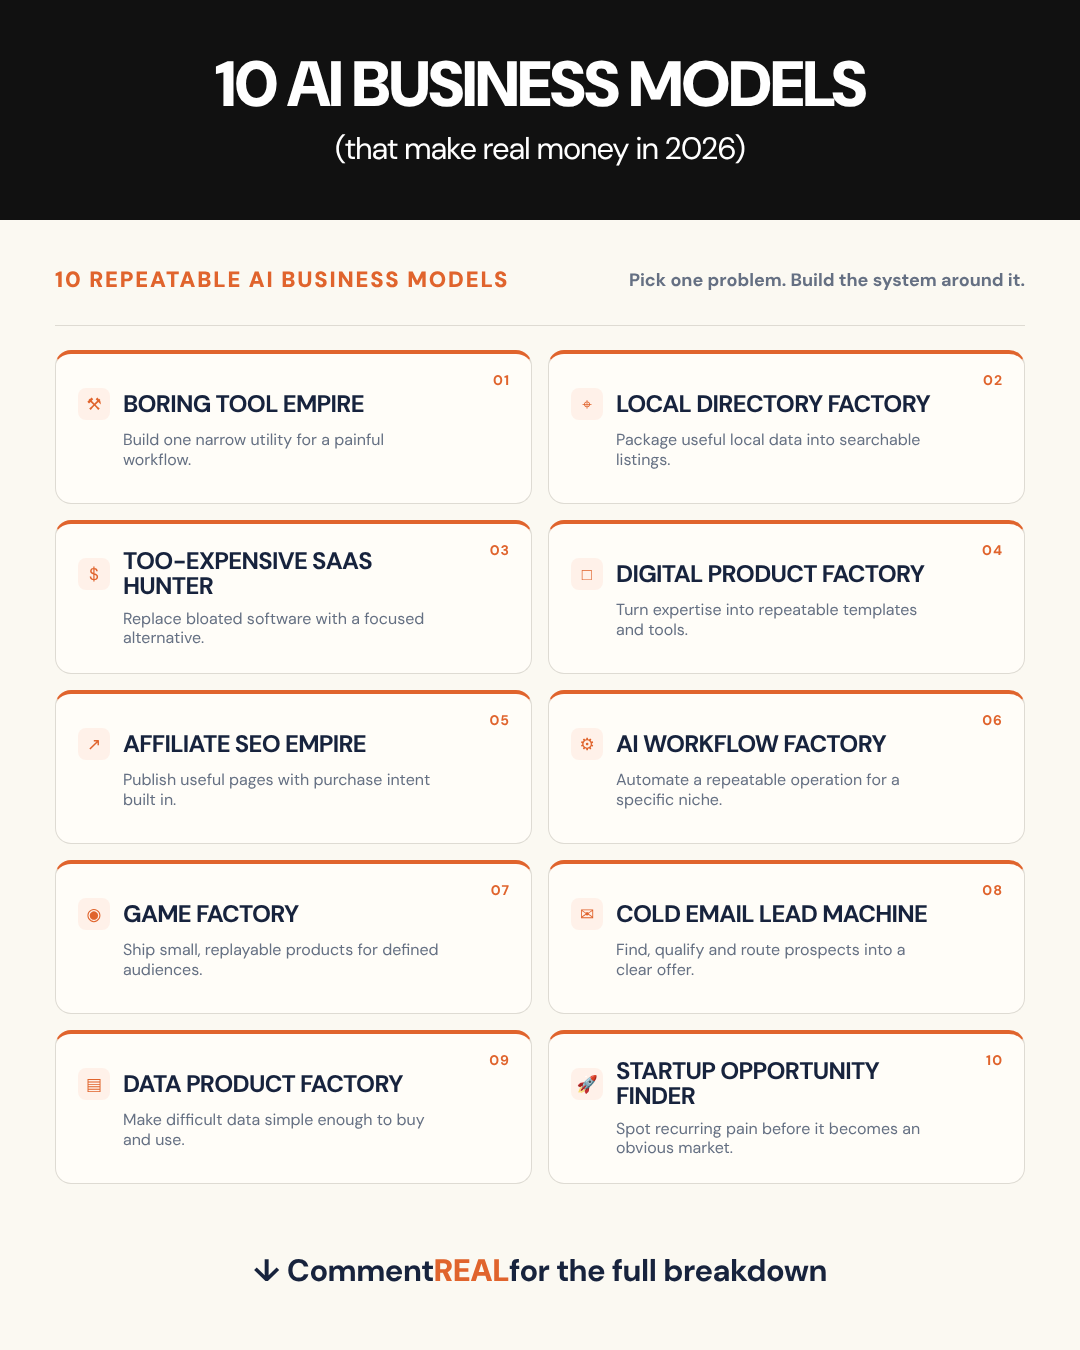
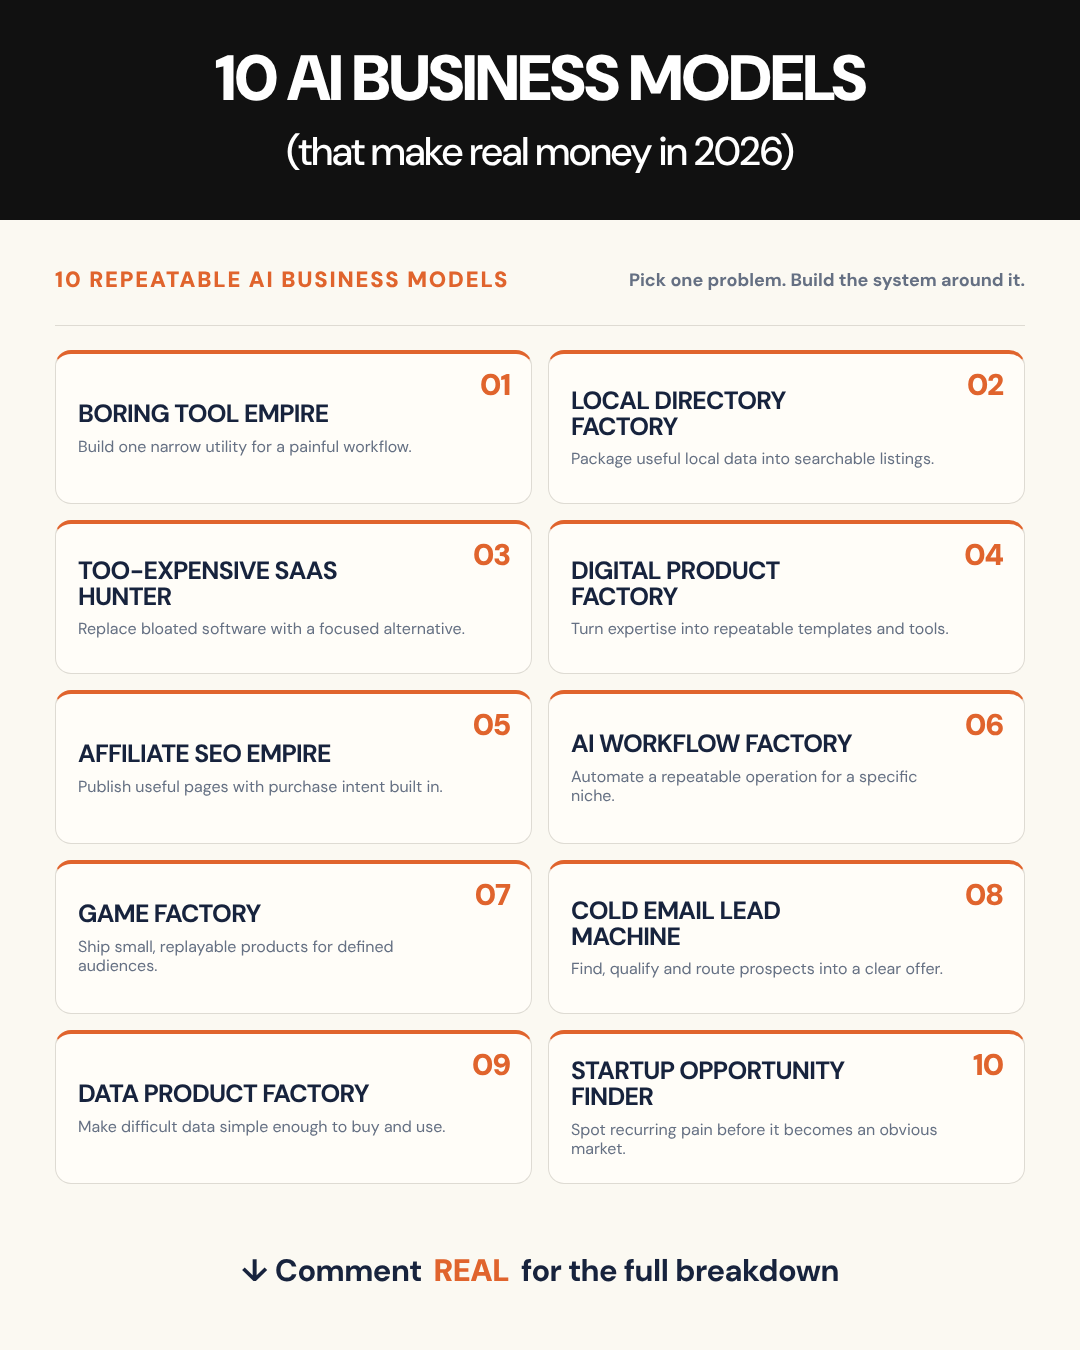
Ship from Ultron

diff --git a/content/ultron-ai-business-models-v2.html b/content/ultron-ai-business-models-v2.html
@@ -157,6 +157,6 @@
 
 /* FILM-META {"duration":7.0,"w":1080,"h":1350,"fps":30,"beats":[{"from":0,"to":3,"name":"reveal"}]} */
 :root{--ink:#17233d;--accent:#e0642d;--cream:#fbf9f2;--rule:#dedbd3;--muted:#657083}*{box-sizing:border-box;margin:0;padding:0}body{background:#000;font-family:'DM Sans',Arial,sans-serif;color:var(--ink)}#film{position:relative;width:1080px;height:1350px;overflow:hidden;background:var(--cream)}
-.header{position:absolute;top:0;left:0;width:1080px;height:220px;background:#111;color:#fff;display:flex;flex-direction:column;align-items:center;justify-content:center;text-align:center;z-index:3}.header h1{font-size:64px;line-height:1;font-weight:850;letter-spacing:-2.4px}.header p{font-size:31px;line-height:1.1;font-weight:400;margin-top:15px;letter-spacing:-.6px}
-.body{position:absolute;top:220px;left:0;width:1080px;height:970px;background:var(--cream);padding:34px 55px 28px}.intro{height:72px;display:flex;justify-content:space-between;align-items:center;border-bottom:1px solid var(--rule);padding-bottom:20px}.intro h2{font-size:22px;letter-spacing:1.8px;color:var(--accent);font-weight:850}.intro p{font-size:18px;font-weight:600;color:var(--muted)}.grid{margin-top:24px;display:grid;grid-template-columns:repeat(2,1fr);grid-auto-rows:154px;gap:16px}.card{position:relative;border:1px solid var(--rule);border-radius:16px;background:#fffdf8;padding:20px 22px;display:flex;flex-direction:column;justify-content:center}.card{border-top:4px solid var(--accent)}.num{position:absolute;top:17px;right:21px;font-size:14px;color:var(--accent);letter-spacing:1px}.titleline{display:flex;align-items:center;gap:13px;padding-right:40px}.icon{display:grid;place-items:center;width:32px;height:32px;border:2px solid var(--purple);border-radius:8px;color:var(--accent);font-size:17px;background:#fff1e9}.card h3{font-size:24px;line-height:1.03;text-transform:uppercase;letter-spacing:-.7px;margin:0;max-width:320px}.card p{font-size:16px;line-height:1.22;color:var(--muted);margin:10px 0 0 45px;max-width:330px}.footer{position:absolute;top:1190px;left:0;width:1080px;height:160px;display:flex;align-items:center;justify-content:center;background:var(--cream);font-size:31px;font-weight:700;color:var(--ink);z-index:3}.footer em{color:var(--accent);font-style:normal;font-weight:850}.veil{position:absolute;left:0;top:220px;width:1080px;height:1130px;background:#000;opacity:.982;z-index:8;pointer-events:none;animation:reveal 3s linear forwards}@keyframes reveal{from{opacity:.982}to{opacity:0}}
-</style></head><body><main id="film"><header class="header"><h1>10 AI BUSINESS MODELS</h1><p>(that make real money in 2026)</p></header><section class="body"><div class="intro"><h2>10 REPEATABLE AI BUSINESS MODELS</h2><p>Pick one problem. Build the system around it.</p></div><div class="grid"><article class="card"><b class="num">01</b><div class="titleline"><span class="icon">⚒</span><h3>Boring tool empire</h3></div><p>Build one narrow utility for a painful workflow.</p></article><article class="card"><b class="num">02</b><div class="titleline"><span class="icon">⌖</span><h3>Local directory factory</h3></div><p>Package useful local data into searchable listings.</p></article><article class="card"><b class="num">03</b><div class="titleline"><span class="icon">$</span><h3>Too-expensive SaaS hunter</h3></div><p>Replace bloated software with a focused alternative.</p></article><article class="card"><b class="num">04</b><div class="titleline"><span class="icon">□</span><h3>Digital product factory</h3></div><p>Turn expertise into repeatable templates and tools.</p></article><article class="card"><b class="num">05</b><div class="titleline"><span class="icon">↗</span><h3>Affiliate SEO empire</h3></div><p>Publish useful pages with purchase intent built in.</p></article><article class="card"><b class="num">06</b><div class="titleline"><span class="icon">⚙</span><h3>AI workflow factory</h3></div><p>Automate a repeatable operation for a specific niche.</p></article><article class="card"><b class="num">07</b><div class="titleline"><span class="icon">◉</span><h3>Game factory</h3></div><p>Ship small, replayable products for defined audiences.</p></article><article class="card"><b class="num">08</b><div class="titleline"><span class="icon">✉</span><h3>Cold email lead machine</h3></div><p>Find, qualify and route prospects into a clear offer.</p></article><article class="card"><b class="num">09</b><div class="titleline"><span class="icon">▤</span><h3>Data product factory</h3></div><p>Make difficult data simple enough to buy and use.</p></article><article class="card"><b class="num">10</b><div class="titleline"><span class="icon">🚀</span><h3>Startup opportunity finder</h3></div><p>Spot recurring pain before it becomes an obvious market.</p></article></div></section><footer class="footer">↓ Comment <em>REAL</em> for the full breakdown</footer><div class="veil"></div></main></body></html>
+.header{position:absolute;top:0;left:0;width:1080px;height:220px;background:#111;color:#fff;display:flex;flex-direction:column;align-items:center;justify-content:center;text-align:center;z-index:3}.header h1{font-size:64px;line-height:1;font-weight:850;letter-spacing:-2.4px}.header p{font-size:40px;line-height:1.1;font-weight:450;margin-top:18px;letter-spacing:-.8px}
+.body{position:absolute;top:220px;left:0;width:1080px;height:970px;background:var(--cream);padding:34px 55px 28px}.intro{height:72px;display:flex;justify-content:space-between;align-items:center;border-bottom:1px solid var(--rule);padding-bottom:20px}.intro h2{font-size:22px;letter-spacing:1.8px;color:var(--accent);font-weight:850}.intro p{font-size:18px;font-weight:600;color:var(--muted)}.grid{margin-top:24px;display:grid;grid-template-columns:repeat(2,1fr);grid-auto-rows:154px;gap:16px}.card{position:relative;border:1px solid var(--rule);border-radius:16px;background:#fffdf8;padding:20px 22px;display:flex;flex-direction:column;justify-content:center}.card{border-top:4px solid var(--accent)}.num{position:absolute;top:16px;right:21px;font-size:30px;font-weight:850;line-height:1;color:var(--accent);letter-spacing:-1px}.card h3{font-size:25px;line-height:1.03;text-transform:uppercase;letter-spacing:-.7px;margin:0;padding-right:62px;max-width:360px}.card p{font-size:16px;line-height:1.22;color:var(--muted);margin:10px 0 0;max-width:390px}.footer{position:absolute;top:1190px;left:0;width:1080px;height:160px;display:flex;align-items:center;justify-content:center;gap:12px;background:var(--cream);font-size:31px;font-weight:700;color:var(--ink);z-index:3}.footer em{color:var(--accent);font-style:normal;font-weight:850}.veil{position:absolute;left:0;top:220px;width:1080px;height:1130px;background:#000;opacity:.982;z-index:8;pointer-events:none;animation:reveal 3s linear forwards}@keyframes reveal{from{opacity:.982}to{opacity:0}}
+</style></head><body><main id="film"><header class="header"><h1>10 AI BUSINESS MODELS</h1><p>(that make real money in 2026)</p></header><section class="body"><div class="intro"><h2>10 REPEATABLE AI BUSINESS MODELS</h2><p>Pick one problem. Build the system around it.</p></div><div class="grid"><article class="card"><b class="num">01</b><h3>Boring tool empire</h3><p>Build one narrow utility for a painful workflow.</p></article><article class="card"><b class="num">02</b><h3>Local directory factory</h3><p>Package useful local data into searchable listings.</p></article><article class="card"><b class="num">03</b><h3>Too-expensive SaaS hunter</h3><p>Replace bloated software with a focused alternative.</p></article><article class="card"><b class="num">04</b><h3>Digital product factory</h3><p>Turn expertise into repeatable templates and tools.</p></article><article class="card"><b class="num">05</b><h3>Affiliate SEO empire</h3><p>Publish useful pages with purchase intent built in.</p></article><article class="card"><b class="num">06</b><h3>AI workflow factory</h3><p>Automate a repeatable operation for a specific niche.</p></article><article class="card"><b class="num">07</b><h3>Game factory</h3><p>Ship small, replayable products for defined audiences.</p></article><article class="card"><b class="num">08</b><h3>Cold email lead machine</h3><p>Find, qualify and route prospects into a clear offer.</p></article><article class="card"><b class="num">09</b><h3>Data product factory</h3><p>Make difficult data simple enough to buy and use.</p></article><article class="card"><b class="num">10</b><h3>Startup opportunity finder</h3><p>Spot recurring pain before it becomes an obvious market.</p></article></div></section><footer class="footer"><span>↓ Comment</span><em>REAL</em><span>for the full breakdown</span></footer><div class="veil"></div></main></body></html>

diff --git a/content/_ultron_models_v2.py b/content/_ultron_models_v2.py
@@ -5,12 +5,12 @@ def font_css():
  spec=importlib.util.spec_from_file_location('_fonts',ROOT/'content/_fonts.py'); mod=importlib.util.module_from_spec(spec); spec.loader.exec_module(mod); return mod.embedded_css()
 models=[
  ('⚒','Boring tool empire','Build one narrow utility for a painful workflow.'),('⌖','Local directory factory','Package useful local data into searchable listings.'),('$','Too-expensive SaaS hunter','Replace bloated software with a focused alternative.'),('□','Digital product factory','Turn expertise into repeatable templates and tools.'),('↗','Affiliate SEO empire','Publish useful pages with purchase intent built in.'),('⚙','AI workflow factory','Automate a repeatable operation for a specific niche.'),('◉','Game factory','Ship small, replayable products for defined audiences.'),('✉','Cold email lead machine','Find, qualify and route prospects into a clear offer.'),('▤','Data product factory','Make difficult data simple enough to buy and use.'),('🚀','Startup opportunity finder','Spot recurring pain before it becomes an obvious market.')]
-cards=''.join(f'<article class="card"><b class="num">{n:02d}</b><div class="titleline"><span class="icon">{i}</span><h3>{html.escape(title)}</h3></div><p>{html.escape(desc)}</p></article>' for n,(i,title,desc) in enumerate(models,1))
+cards=''.join(f'<article class="card"><b class="num">{n:02d}</b><h3>{html.escape(title)}</h3><p>{html.escape(desc)}</p></article>' for n,(_,title,desc) in enumerate(models,1))
 css='''
 /* FILM-META {"duration":7.0,"w":1080,"h":1350,"fps":30,"beats":[{"from":0,"to":3,"name":"reveal"}]} */
 :root{--ink:#17233d;--accent:#e0642d;--cream:#fbf9f2;--rule:#dedbd3;--muted:#657083}*{box-sizing:border-box;margin:0;padding:0}body{background:#000;font-family:'DM Sans',Arial,sans-serif;color:var(--ink)}#film{position:relative;width:1080px;height:1350px;overflow:hidden;background:var(--cream)}
-.header{position:absolute;top:0;left:0;width:1080px;height:220px;background:#111;color:#fff;display:flex;flex-direction:column;align-items:center;justify-content:center;text-align:center;z-index:3}.header h1{font-size:64px;line-height:1;font-weight:850;letter-spacing:-2.4px}.header p{font-size:31px;line-height:1.1;font-weight:400;margin-top:15px;letter-spacing:-.6px}
-.body{position:absolute;top:220px;left:0;width:1080px;height:970px;background:var(--cream);padding:34px 55px 28px}.intro{height:72px;display:flex;justify-content:space-between;align-items:center;border-bottom:1px solid var(--rule);padding-bottom:20px}.intro h2{font-size:22px;letter-spacing:1.8px;color:var(--accent);font-weight:850}.intro p{font-size:18px;font-weight:600;color:var(--muted)}.grid{margin-top:24px;display:grid;grid-template-columns:repeat(2,1fr);grid-auto-rows:154px;gap:16px}.card{position:relative;border:1px solid var(--rule);border-radius:16px;background:#fffdf8;padding:20px 22px;display:flex;flex-direction:column;justify-content:center}.card{border-top:4px solid var(--accent)}.num{position:absolute;top:17px;right:21px;font-size:14px;color:var(--accent);letter-spacing:1px}.titleline{display:flex;align-items:center;gap:13px;padding-right:40px}.icon{display:grid;place-items:center;width:32px;height:32px;border:2px solid var(--purple);border-radius:8px;color:var(--accent);font-size:17px;background:#fff1e9}.card h3{font-size:24px;line-height:1.03;text-transform:uppercase;letter-spacing:-.7px;margin:0;max-width:320px}.card p{font-size:16px;line-height:1.22;color:var(--muted);margin:10px 0 0 45px;max-width:330px}.footer{position:absolute;top:1190px;left:0;width:1080px;height:160px;display:flex;align-items:center;justify-content:center;background:var(--cream);font-size:31px;font-weight:700;color:var(--ink);z-index:3}.footer em{color:var(--accent);font-style:normal;font-weight:850}.veil{position:absolute;left:0;top:220px;width:1080px;height:1130px;background:#000;opacity:.982;z-index:8;pointer-events:none;animation:reveal 3s linear forwards}@keyframes reveal{from{opacity:.982}to{opacity:0}}
+.header{position:absolute;top:0;left:0;width:1080px;height:220px;background:#111;color:#fff;display:flex;flex-direction:column;align-items:center;justify-content:center;text-align:center;z-index:3}.header h1{font-size:64px;line-height:1;font-weight:850;letter-spacing:-2.4px}.header p{font-size:40px;line-height:1.1;font-weight:450;margin-top:18px;letter-spacing:-.8px}
+.body{position:absolute;top:220px;left:0;width:1080px;height:970px;background:var(--cream);padding:34px 55px 28px}.intro{height:72px;display:flex;justify-content:space-between;align-items:center;border-bottom:1px solid var(--rule);padding-bottom:20px}.intro h2{font-size:22px;letter-spacing:1.8px;color:var(--accent);font-weight:850}.intro p{font-size:18px;font-weight:600;color:var(--muted)}.grid{margin-top:24px;display:grid;grid-template-columns:repeat(2,1fr);grid-auto-rows:154px;gap:16px}.card{position:relative;border:1px solid var(--rule);border-radius:16px;background:#fffdf8;padding:20px 22px;display:flex;flex-direction:column;justify-content:center}.card{border-top:4px solid var(--accent)}.num{position:absolute;top:16px;right:21px;font-size:30px;font-weight:850;line-height:1;color:var(--accent);letter-spacing:-1px}.card h3{font-size:25px;line-height:1.03;text-transform:uppercase;letter-spacing:-.7px;margin:0;padding-right:62px;max-width:360px}.card p{font-size:16px;line-height:1.22;color:var(--muted);margin:10px 0 0;max-width:390px}.footer{position:absolute;top:1190px;left:0;width:1080px;height:160px;display:flex;align-items:center;justify-content:center;gap:12px;background:var(--cream);font-size:31px;font-weight:700;color:var(--ink);z-index:3}.footer em{color:var(--accent);font-style:normal;font-weight:850}.veil{position:absolute;left:0;top:220px;width:1080px;height:1130px;background:#000;opacity:.982;z-index:8;pointer-events:none;animation:reveal 3s linear forwards}@keyframes reveal{from{opacity:.982}to{opacity:0}}
 '''
-page=f'''<!doctype html><html><head><meta charset="utf-8"><title>10 AI Business Models</title><style>{font_css()}\n{css}</style></head><body><main id="film"><header class="header"><h1>10 AI BUSINESS MODELS</h1><p>(that make real money in 2026)</p></header><section class="body"><div class="intro"><h2>10 REPEATABLE AI BUSINESS MODELS</h2><p>Pick one problem. Build the system around it.</p></div><div class="grid">{cards}</div></section><footer class="footer">↓ Comment <em>REAL</em> for the full breakdown</footer><div class="veil"></div></main></body></html>'''
+page=f'''<!doctype html><html><head><meta charset="utf-8"><title>10 AI Business Models</title><style>{font_css()}\n{css}</style></head><body><main id="film"><header class="header"><h1>10 AI BUSINESS MODELS</h1><p>(that make real money in 2026)</p></header><section class="body"><div class="intro"><h2>10 REPEATABLE AI BUSINESS MODELS</h2><p>Pick one problem. Build the system around it.</p></div><div class="grid">{cards}</div></section><footer class="footer"><span>↓ Comment</span><em>REAL</em><span>for the full breakdown</span></footer><div class="veil"></div></main></body></html>'''
 OUT.write_text(page); print(f'generated {OUT}: native two-column card grid, no circular body')
